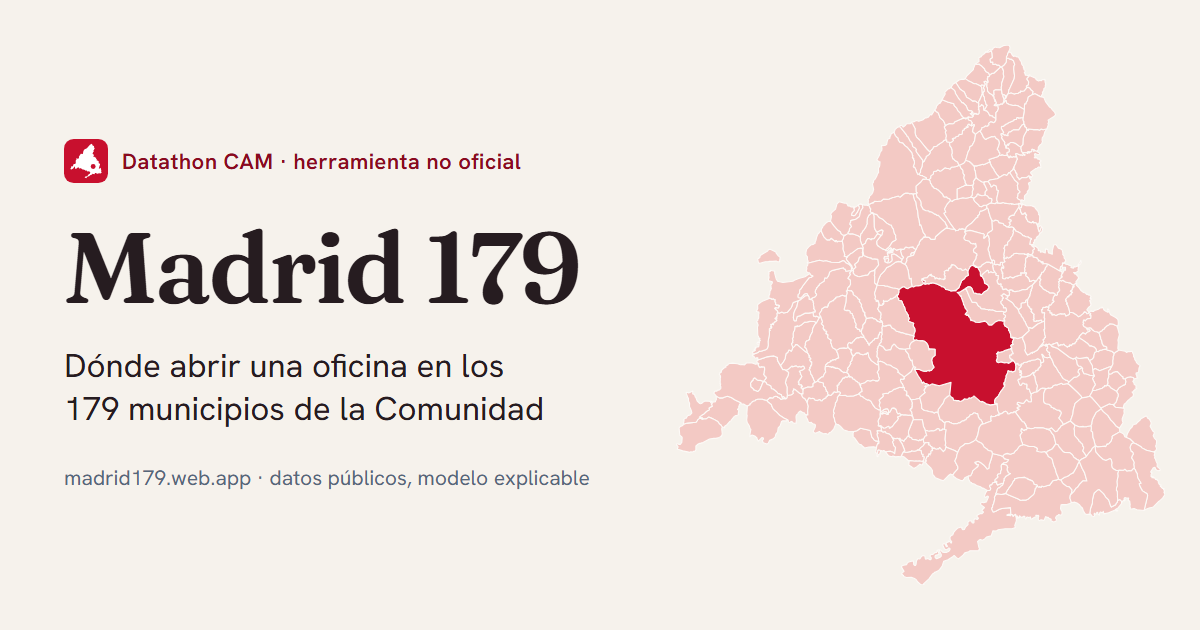
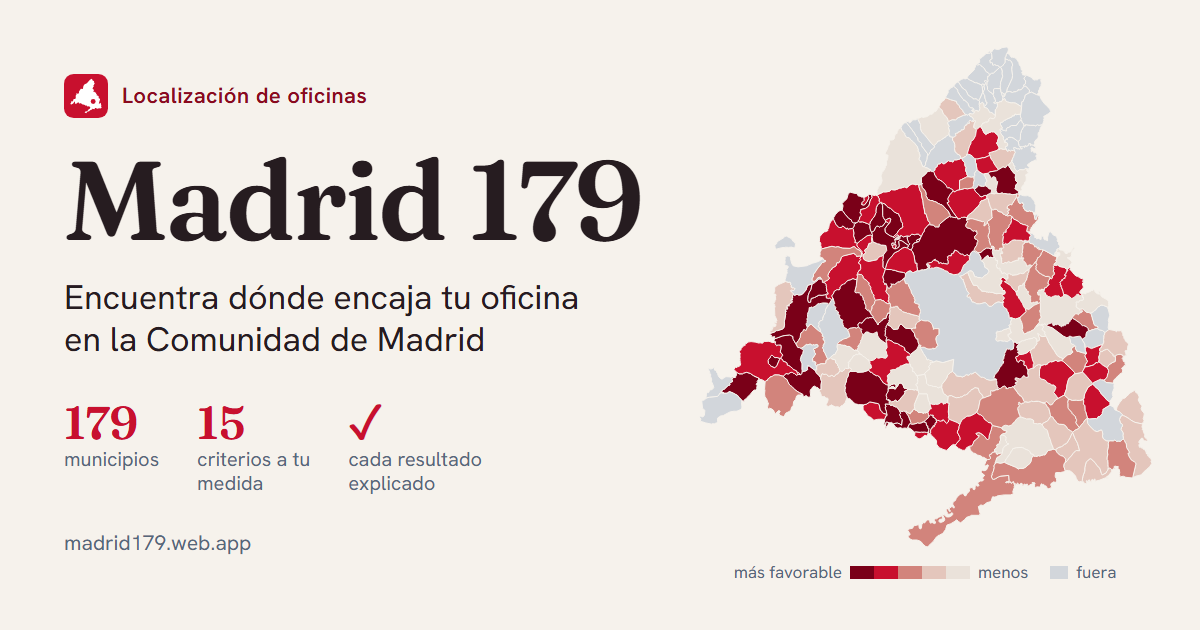
Vista previa al compartir: imagen de producto, sin «Datathon»
- og.png: mapa coloreado con la clasificación por defecto (quintiles entre
  candidatos, colores de la app; gris = fuera del análisis), cifras clave y
  titular legible en miniatura.
- index.html: descripciones centradas en lo que hace la herramienta; el texto
  estático dice «herramienta independiente». El aviso de no oficial sigue en
  el pie de la app.

diff --git a/frontend/app/index.html b/frontend/app/index.html
@@ -5,7 +5,7 @@
     <meta name="viewport" content="width=device-width, initial-scale=1.0" />
     <meta name="theme-color" content="#f6f2ec" />
     <title>Madrid 179 · Dónde abrir una oficina en la Comunidad de Madrid</title>
-    <meta name="description" content="Herramienta no oficial que recomienda dónde abrir o trasladar una oficina en los 179 municipios de la Comunidad de Madrid, con un modelo explicable y datos públicos." />
+    <meta name="description" content="Descubre dónde abrir o trasladar tu oficina entre los 179 municipios de la Comunidad de Madrid. Recomendaciones según tu negocio, explicadas con datos públicos." />
     <link rel="canonical" href="https://madrid179.web.app/" />
     <link rel="icon" href="/favicon.svg" type="image/svg+xml" />
     <link rel="apple-touch-icon" href="/apple-touch-icon.png" />
@@ -21,7 +21,7 @@
     <meta property="og:image" content="https://madrid179.web.app/og.png" />
     <meta property="og:image:width" content="1200" />
     <meta property="og:image:height" content="630" />
-    <meta property="og:image:alt" content="Mapa de los 179 municipios de la Comunidad de Madrid junto al título Madrid 179" />
+    <meta property="og:image:alt" content="Madrid 179: mapa de los 179 municipios de la Comunidad de Madrid coloreados de más a menos favorables para abrir una oficina" />
     <meta name="twitter:card" content="summary_large_image" />
 
     <script type="application/ld+json">
@@ -30,7 +30,7 @@
         "@type": "WebApplication",
         "name": "Madrid 179",
         "url": "https://madrid179.web.app/",
-        "description": "Herramienta no oficial que recomienda dónde abrir o trasladar una oficina en los 179 municipios de la Comunidad de Madrid, con un modelo explicable y datos públicos.",
+        "description": "Descubre dónde abrir o trasladar tu oficina entre los 179 municipios de la Comunidad de Madrid. Recomendaciones según tu negocio, explicadas con datos públicos.",
         "inLanguage": "es",
         "applicationCategory": "BusinessApplication",
         "operatingSystem": "Web",
@@ -48,7 +48,7 @@
       <main style="max-width: 36rem; margin: 20vh auto 0; padding: 0 16px; font-family: system-ui, sans-serif; color: #261c20">
         <h1 style="font-size: 2rem; margin: 0 0 0.5rem">Madrid 179</h1>
         <p>Dónde abrir o trasladar una oficina en los 179 municipios de la Comunidad de Madrid. La herramienta ordena los municipios según lo que necesita cada negocio (transporte, coste, talento, ayudas, tamaño…) y explica cada recomendación con datos públicos y un modelo transparente.</p>
-        <p>Herramienta no oficial creada para el Datathon de la Comunidad de Madrid. Código abierto en <a href="https://github.com/GF3000/madrid-179">GitHub</a>.</p>
+        <p>Herramienta independiente, no vinculada a la Comunidad de Madrid. Código abierto en <a href="https://github.com/GF3000/madrid-179">GitHub</a>.</p>
         <noscript><p><b>Activa JavaScript para usar el mapa y el comparador.</b></p></noscript>
       </main>
     </div>

diff --git a/backend/pipeline/imagen_social.py b/backend/pipeline/imagen_social.py
@@ -1,10 +1,9 @@
 """Logo, imágenes para compartir e iconos de la app (frontend/app/public/).
 
 - favicon.svg: el logo. La silueta de la Comunidad (unión de los 179 municipios) en blanco sobre un cuadrado
-  carmesí, con un punto carmesí dentro: «de todo el territorio, este sitio». El punto no es ningún municipio
-  concreto ni Madrid capital: es el punto más alejado del contorno a más de 25 km del centro de Madrid.
-- og.png (1200 × 630): vista previa al compartir el enlace (Open Graph / Twitter), con los 179 municipios
-  dibujados desde data/processed/municipios.geojson y las fuentes y colores de la app.
+  carmesí, con un punto carmesí dentro: «de todo el territorio, este sitio» (ver silueta()).
+- og.png (1200 × 630): vista previa al compartir el enlace (Open Graph / Twitter), con el logo, los 179 municipios
+  dibujados desde data/processed/municipios.geojson y el punto del logo, con las fuentes y colores de la app.
 - apple-touch-icon.png (180 × 180), icon-192.png e icon-512.png: el logo en PNG para móviles y el manifest.
 
 Se dibuja en HTML/SVG y se fotografía con Chrome o Edge sin interfaz (el venv no lleva matplotlib ni Pillow).
@@ -17,6 +16,7 @@ import shutil
 import subprocess
 import sys
 import tempfile
+from functools import cache
 from pathlib import Path
 
 from pyproj import Transformer
@@ -25,6 +25,7 @@ from shapely.ops import transform, unary_union
 
 RAIZ = Path.cwd()
 GEOJSON = RAIZ / "data" / "processed" / "municipios.geojson"
+RANKING = RAIZ / "data" / "processed" / "bn_ranking_municipios.csv"  # red_bayesiana_viabilidad.py
 PUBLIC = RAIZ / "frontend" / "app" / "public"
 FUENTES = RAIZ / "frontend" / "app" / "node_modules" / "@fontsource-variable"
 NAVEGADORES = [
@@ -36,6 +37,9 @@ NAVEGADORES = [
 # Colores de frontend/app/src/estilos.css
 PAPEL, PAPEL_CLARO, TINTA, ROJO, ROJO_HONDO, ROJO_MEDIO, PIZARRA = (
     "#f6f2ec", "#fcfaf7", "#261c20", "#c8102e", "#8a0a1f", "#f3c9c4", "#56677a")
+# Grupos del mapa (CLASES y FUERA en frontend/app/src/modelo.ts), de «Muy favorable» a «Poco favorable»
+GRUPOS = ["#7a0018", "#c8102e", "#d2847c", "#e4c6bc", "#eae2da"]
+FUERA = "#d2d6db"
 
 
 def navegador():
@@ -63,9 +67,20 @@ def fotografiar(html, salida, ancho, alto):
     print(f"{salida.relative_to(RAIZ)}  {ancho}×{alto}  {salida.stat().st_size // 1024} KB")
 
 
+def grupos():
+    """Grupo de cada municipio en la clasificación por defecto (sin preferencias ni filtros), como en el mapa de la
+    app (frontend/app/src/modelo.ts, clasificar): quintiles por posición entre candidatos; el resto, fuera."""
+    filas = RANKING.read_text(encoding="utf-8-sig").splitlines()
+    cab = filas[0].split(";")
+    pos = {c[cab.index("ine5")]: int(c[cab.index("posicion")]) for c in (f.split(";") for f in filas[1:] if f)}
+    n = len(pos)
+    return {ine5: min(4, (p - 1) * 5 // n) for ine5, p in pos.items()}
+
+
 def mapa_svg(ancho, alto):
-    """Los 179 municipios en una proyección equirrectangular corregida por la latitud media."""
+    """Los 179 municipios (proyección equirrectangular corregida por la latitud media) con el color de su grupo."""
     feats = json.loads(GEOJSON.read_text(encoding="utf-8"))["features"]
+    grupo = grupos()
     k = math.cos(math.radians(40.5))
     anillos = []
     for f in feats:
@@ -80,15 +95,17 @@ def mapa_svg(ancho, alto):
     for ine5, an in anillos:
         d = " ".join("M" + "L".join(f"{(lon * k - x0) * esc:.1f},{(-lat - y0) * esc:.1f}" for lon, lat in a) + "Z"
                      for a in an)
-        relleno = ROJO if ine5 == "28079" else ROJO_MEDIO
-        caminos.append(f'<path d="{d}" fill="{relleno}"/>')
+        color = GRUPOS[grupo[ine5]] if ine5 in grupo else FUERA
+        caminos.append(f'<path d="{d}" fill="{color}"/>')
     w, h = (max(xs) - x0) * esc, (max(ys) - y0) * esc
     return (f'<svg xmlns="http://www.w3.org/2000/svg" width="{w:.0f}" height="{h:.0f}" viewBox="0 0 {w:.1f} {h:.1f}">'
-            f'<g stroke="{PAPEL_CLARO}" stroke-width="1.1" stroke-linejoin="round">{"".join(caminos)}</g></svg>')
+            f'<g stroke="{PAPEL}" stroke-width="1" stroke-linejoin="round">{"".join(caminos)}</g></svg>')
 
 
-def logo_svg(esquina=22):
-    """El logo en un lienzo de 100 × 100: silueta en UTM 30N simplificada a ~1,5 km (se lee a 16 px)."""
+@cache
+def silueta():
+    """Contorno de la Comunidad (unión de los municipios, UTM 30N) y el punto del logo, que no es ningún municipio
+    concreto ni Madrid capital: el más alejado del contorno (rejilla de 60 × 60) a más de 25 km de Madrid."""
     feats = json.loads(GEOJSON.read_text(encoding="utf-8"))["features"]
     utm = Transformer.from_crs(4326, 25830, always_xy=True).transform
     union = unary_union([transform(utm, shape(f["geometry"])) for f in feats]).buffer(50).buffer(-50)
@@ -97,10 +114,16 @@ def logo_svg(esquina=22):
     madrid = transform(utm, Point(*next(f["properties"]["centro"] for f in feats
                                         if f["properties"]["ine5"] == "28079")))
     x0, y0, x1, y1 = union.bounds
-    # Punto del logo: el más alejado del contorno (rejilla de 60 × 60) a más de 25 km de Madrid capital
     rejilla = (Point(x0 + (x1 - x0) * i / 59, y0 + (y1 - y0) * j / 59) for i in range(60) for j in range(60))
     punto = max((p for p in rejilla if union.contains(p) and p.distance(madrid) > 25_000),
                 key=lambda p: p.distance(union.boundary))
+    return union, punto
+
+
+def logo_svg(esquina=22):
+    """El logo en un lienzo de 100 × 100: silueta simplificada a ~1,5 km (se lee a 16 px) y el punto."""
+    union, punto = silueta()
+    x0, y0, x1, y1 = union.bounds
     lado, margen = 100, 11
     esc = (lado - 2 * margen) / max(x1 - x0, y1 - y0)
     ox = (lado - (x1 - x0) * esc) / 2
@@ -119,29 +142,48 @@ def fuente(familia, fichero):
 
 
 def og():
+    """Vista previa al compartir. Pensada para leerse también en miniatura (WhatsApp, iMessage): titular grande,
+    poco texto pequeño y el mapa con la clasificación real por defecto."""
     logo = logo_svg()
+    leyenda = "".join(f'<i style="background:{c}"></i>' for c in GRUPOS)
     return f"""<!doctype html><meta charset="utf-8"><style>
 {fuente("Fraunces", "fraunces/files/fraunces-latin-wght-normal.woff2")}
 {fuente("Hanken Grotesk", "hanken-grotesk/files/hanken-grotesk-latin-wght-normal.woff2")}
 html, body {{ margin: 0; width: 1200px; height: 630px; overflow: hidden; background: {PAPEL}; color: {TINTA}; }}
-body {{ display: grid; grid-template-columns: 640px 1fr; align-items: center; font-family: 'Hanken Grotesk', sans-serif; }}
+body {{ display: grid; grid-template-columns: 650px 1fr; align-items: center; font-family: 'Hanken Grotesk', sans-serif; }}
 .texto {{ padding: 0 0 0 64px; }}
 .marca {{ display: flex; align-items: center; gap: 14px; font-size: 22px; font-weight: 600; color: {ROJO_HONDO};
   letter-spacing: .02em; }}
 .marca svg {{ width: 44px; height: 44px; }}
-h1 {{ font-family: 'Fraunces', serif; font-weight: 600; font-size: 100px; line-height: 1; margin: 34px 0 28px; white-space: nowrap;
-  letter-spacing: -.02em; }}
-p {{ font-size: 33px; line-height: 1.28; margin: 0; max-width: 500px; }}
+h1 {{ font-family: 'Fraunces', serif; font-weight: 600; font-size: 112px; line-height: 1; margin: 26px 0 20px;
+  white-space: nowrap; letter-spacing: -.02em; }}
+p {{ font-size: 34px; line-height: 1.25; margin: 0; max-width: 540px; }}
+.cifras {{ display: flex; gap: 38px; margin-top: 38px; }}
+.cifras div {{ font-size: 20px; line-height: 1.2; color: {PIZARRA}; }}
+.cifras b {{ display: block; font-family: 'Fraunces', serif; font-weight: 600; font-size: 46px; line-height: 1.05;
+  color: {ROJO}; }}
 .pie {{ margin-top: 34px; font-size: 21px; color: {PIZARRA}; }}
-.mapa {{ display: flex; justify-content: center; }}
+.mapa {{ display: flex; flex-direction: column; align-items: center; gap: 14px; }}
+.leyenda {{ display: flex; align-items: center; gap: 8px; font-size: 17px; color: {PIZARRA}; }}
+.leyenda span {{ display: flex; }}
+.leyenda i {{ width: 24px; height: 13px; }}
+.leyenda .fuera {{ margin-left: 14px; }}
+.leyenda .fuera i {{ width: 18px; }}
 </style>
 <div class="texto">
-  <div class="marca">{logo} Datathon CAM · herramienta no oficial</div>
+  <div class="marca">{logo} Localización de oficinas</div>
   <h1>Madrid 179</h1>
-  <p>Dónde abrir una oficina en los 179 municipios de la Comunidad</p>
-  <div class="pie">madrid179.web.app · datos públicos, modelo explicable</div>
+  <p>Encuentra dónde encaja tu oficina en la Comunidad de Madrid</p>
+  <div class="cifras">
+    <div><b>179</b>municipios</div>
+    <div><b>15</b>criterios a tu<br>medida</div>
+    <div><b>✓</b>cada resultado<br>explicado</div>
+  </div>
+  <div class="pie">madrid179.web.app</div>
 </div>
-<div class="mapa">{mapa_svg(520, 540)}</div>"""
+<div class="mapa">{mapa_svg(500, 500)}
+  <div class="leyenda">más favorable <span>{leyenda}</span> menos<span class="fuera"><i style="background:{FUERA}"></i></span> fuera</div>
+</div>"""
 
 
 def icono(lado):

diff --git a/docs/memoria/PENDIENTES.md b/docs/memoria/PENDIENTES.md
@@ -70,7 +70,7 @@ Decisión tomada (2026-10-07): las ayudas **no** son nodo de la red. Por defecto
 
 - [ ] **#28 P2 · Backend FastAPI.** (avance 2026-10-08, rama `feat/backend-v1`: paquete `backend/madrid179`, `entrenar.py` → `modelo.joblib`, API v1 `/meta`, `/municipios`, `/ranking`, `/municipios/{ine5}`, `/consulta`, 26 tests, prototipo HTML en `frontend/prototipo/` y arranque con `infra/scripts/dev.ps1`. Falta `/simulacion` (→ requiere #3, #6) y fusionar la rama. Arquitectura en `docs/arquitectura/BACKEND.md`) Endpoints: puntuación de los 179 municipios dada evidencia y filtros, explicación por municipio, simulación `do()`. Datos en Parquet en memoria. → requiere #5
 - [x] **#29 P2 · Esquema de salida estructurada del LLM** para el onboarding (filtros duros, evidencias blandas, variables inciertas) y su mapeo a los estados de los nodos. · **Hecho 2026-10-15:** `madrid179/asistente.py` y `POST /api/v1/interpretar` con DeepSeek (`deepseek-chat`, `response_format: json_object`, httpx). Salida: resumen, sector, preferencias del catálogo {importancia, sentido, motivo}, filtros «imprescindible» y hasta 3 dudas; todo se sanea contra el catálogo y lo descartado se devuelve en `avisos`. En la app: cuadro «Cuéntanos tu negocio» → se aplica al mapa al momento (decisión 2026-10-15, antes había que confirmar) → tarjeta «Aplicado al mapa: esto es lo que hemos entendido» con «Deshacer». Mapea a preferencias y filtros, no a estados de nodos (las consultas a la red siguen en «Explorar perfiles»). **Falta:** probar con la clave real (el `.env` no la tiene; probado con un servidor que imita la API) y medir cómo de bien traduce con 15-20 descripciones de prueba. · **Avance 2026-10-15:** «Inventar un ejemplo» (`asistente.ejemplo()` + `POST /api/v1/ejemplo`): sortea en Python sector, plantilla y 2-3 necesidades y el LLM las redacta como lo contaría el usuario; la app deja el texto en el cuadro para interpretarlo (sin LLM, usa el ejemplo fijo). Probado con la clave real: ejemplo → interpretar devuelve preferencias válidas sin avisos. Sirve también para generar las 15-20 descripciones de la medición.
-- [ ] **#51 P2 · Indexación y vista previa de madrid179.web.app.** · **Avance 2026-10-15:** la web no aparecía en buscadores y solo tenía `<title>`. Añadido en `frontend/app/index.html`: título descriptivo, `description`, `canonical` a madrid179.web.app (la URL de Cloud Run sirve lo mismo), Open Graph y Twitter Card con `og.png` 1200 × 630, JSON-LD `WebApplication`, `apple-touch-icon` y manifest; texto estático dentro de `#raiz` (React lo sustituye) para buscadores y vistas sin JavaScript. En `frontend/app/public/`: `robots.txt` (todo permitido; no bloquear `/api`, que Google necesita para pintar la app), `sitemap.xml`, `manifest.webmanifest` e imágenes de `backend/pipeline/imagen_social.py`. Falta: publicar (merge a `main` → CD), dar de alta el dominio en Google Search Console y enviar el sitemap, y comprobar la vista previa con el depurador de LinkedIn o de Facebook.
+- [ ] **#51 P2 · Indexación y vista previa de madrid179.web.app.** · **Avance 2026-10-15:** la web no aparecía en buscadores y solo tenía `<title>`. Añadido en `frontend/app/index.html`: título descriptivo, `description`, `canonical` a madrid179.web.app (la URL de Cloud Run sirve lo mismo), Open Graph y Twitter Card con `og.png` 1200 × 630, JSON-LD `WebApplication`, `apple-touch-icon` y manifest; texto estático dentro de `#raiz` (React lo sustituye) para buscadores y vistas sin JavaScript. En `frontend/app/public/`: `robots.txt` (todo permitido; no bloquear `/api`, que Google necesita para pintar la app), `sitemap.xml`, `manifest.webmanifest` e imágenes de `backend/pipeline/imagen_social.py`. **Logo nuevo (2026-10-15):** el cuadrado rojo con una estrella era genérico; ahora `favicon.svg` es la silueta de la Comunidad (unión de los 179 municipios) en blanco sobre carmesí con un punto carmesí dentro («de todo el territorio, este sitio»), generado por `imagen_social.py` junto con los iconos PNG y `og.png`, cuyo mapa ya no destaca Madrid capital sino el mismo punto. Rehecha el mismo día como producto, sin «Datathon»: mapa coloreado con la clasificación por defecto (quintiles entre candidatos, mismos colores que la app; gris = fuera del análisis), cifras «179 municipios · 15 criterios · cada resultado explicado» y titular legible en miniatura. El aviso de herramienta no oficial sigue en el pie de la app. Falta: publicar (merge a `main` → CD), dar de alta el dominio en Google Search Console y enviar el sitemap, y comprobar la vista previa con el depurador de LinkedIn o de Facebook.
 - [ ] **#30 P2 · Preguntas por valor de la información:** elegir la pregunta que más reduce la entropía esperada del ranking entre candidatos.
 - [ ] **#31 P2 · Descomposición XAI por municipio:** (avance: `data/processed/ga2m_contribuciones.csv` ya da la contribución de cada término del GA²M por municipio) contribución de cada evidencia y atributo (cambio en log-odds), más la parte de ayudas si se activa #12. · **Avance 2026-10-15 (lecturas):** el asistente decía «lo mejor: coste inmobiliario alto». El GA²M asocia vivienda cara con mejor saldo de empresas (señal de demanda; ρ con el objetivo 0,24, con la renta 0,53; +0,28 pp en los más caros), lo que choca con el interés del que se instala. `config.LECTURAS` da a las variables de signo engañoso una explicación que viaja en `ga2m.aportaciones[].lectura` (ficha, en cursiva bajo el factor) y en `hechos.factores[].como_leerlo` (LLM). La variable se llama ahora «Valor de la vivienda» en etiquetas, perfil y app (el nodo y la preferencia «Coste inmobiliario bajo» no cambian). Instrucciones del LLM: nunca presentar lo caro como ventaja; si suma, decirlo como demanda y avisar en «peor»; si el usuario pidió coste bajo, va en «peor». Probado con la clave real en Majadahonda. Test `test_valor_vivienda_se_lee_como_demanda`. Ampliable a otros signos contraintuitivos (paro bajo que resta).
 - [ ] **#32 P3 · Frontend:** React/TypeScript, MapLibre y Deck.gl, empaquetado con Tauri o Electron. → requiere #23, #28 · **Avance 2026-10-15:** app en `frontend/app/` (Vite + React + TS, MapLibre + deck.gl), servida por la API en `/` (`dev.ps1` la compila si falta; job `frontend` en la CI). Mapa 3D con columnas por grupo (cinco quintiles + «No cumple tus requisitos» + «Fuera del análisis»), intro animada, rotación/inclinación libres y controles propios; ficha con factores a favor/en contra en tres niveles, lectura de la red sin cifras y perfil en terciles; preferencias y requisitos con transición de columnas y panel «Qué ha cambiado»; pestaña de perfiles (consulta a la red) que resalta en el mapa los municipios que encajan; diálogo «Cómo se decide». Criterios en `frontend/app/README.md`. Falta: empaquetado de escritorio, simulador `do()` (#16), capa de ayudas/transporte en el mapa (#38), validar con usuarios los textos de la ficha.
